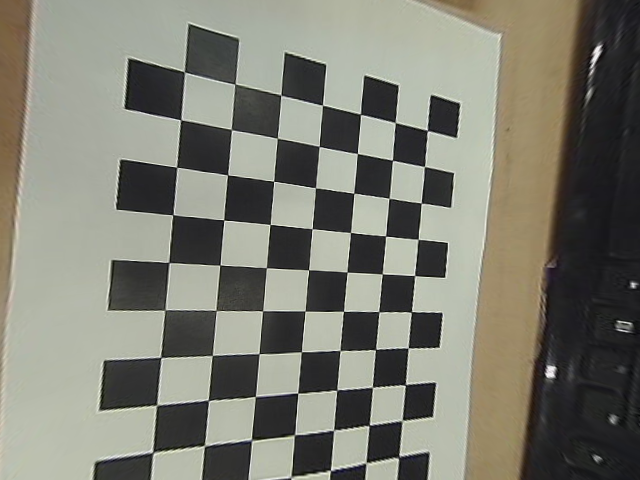
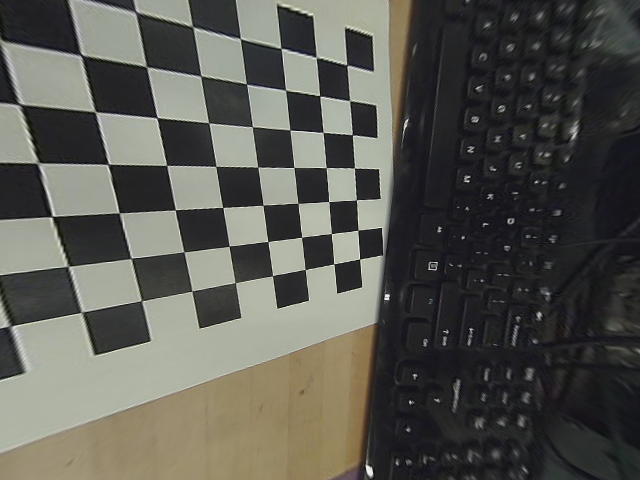
fix: keyboard calibration

diff --git a/mars_ws/src/keyboard_autonomy/keyboard_autonomy/keyboard_calibration.py b/mars_ws/src/keyboard_autonomy/keyboard_autonomy/keyboard_calibration.py
@@ -9,12 +9,40 @@ Details the keyboard layout and pixel locations of each key.
 
 KEYBOARD_OFFSET = [0, 0, 0]
 
-KEYBOARD_NEUTRAL = [0, 201, 117]
+KEYBOARD_NEUTRAL = [0, 154, 90]
 
 KEYPIX = {}
 
-KEYPIX["q"] = [76, 92]
-KEYPIX["p"] = [300, 92]
+KEYPIX["q"] = [53, 72]
+KEYPIX["w"] = [70, 73]
+KEYPIX["e"] = [88, 71]
+KEYPIX["r"] = [106, 71]
+KEYPIX["t"] = [123, 72]
+KEYPIX["y"] = [144, 72]
+KEYPIX["u"] = [165, 72]
+KEYPIX["i"] = [185, 73]
+KEYPIX["o"] = [206, 72]
+KEYPIX["p"] = [229, 73]
 
-KEYPIX["z"] = [106, 138]
-KEYPIX["m"] = [239, 140]
+KEYPIX["caps_lock"] = [40, 93]
+KEYPIX["a"] = [62, 94]
+KEYPIX["s"] = [79, 93]
+KEYPIX["d"] = [95, 94]
+KEYPIX["f"] = [113, 93]
+KEYPIX["g"] = [132, 92]
+KEYPIX["h"] = [152, 93]
+KEYPIX["j"] = [171, 93]
+KEYPIX["k"] = [190, 94]
+KEYPIX["l"] = [211, 95]
+KEYPIX["enter"] = [291, 96]
+
+KEYPIX["z"] = [74, 109]
+KEYPIX["x"] = [91, 110]
+KEYPIX["c"] = [107, 110]
+KEYPIX["v"] = [125, 110]
+KEYPIX["b"] = [144, 112]
+KEYPIX["n"] = [162, 112]
+KEYPIX["m"] = [178, 113]
+KEYPIX["space"] = [146, 130]
+
+KEYPIX["delete_key"] = [306, 50]
